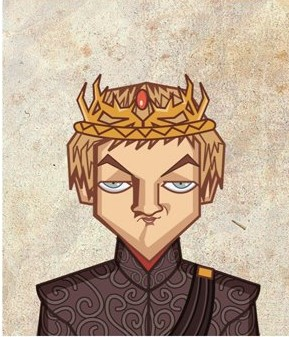
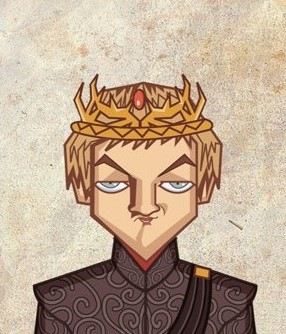
added on hover and on click style

diff --git a/src/App.js b/src/App.js
@@ -9,6 +9,7 @@ class App extends Component {
   state = {
     characters
   };
+  
 
 
   // Map over this.state.characters and render a CharacterCard component for each character object
@@ -21,6 +22,7 @@ class App extends Component {
         
             id={character.id}
             image={character.image}
+
             
           />
         ))}

diff --git a/src/components/CharacterCard/style.css b/src/components/CharacterCard/style.css
@@ -17,6 +17,15 @@
 .card > .img-container > img {
   width: 100%
 }
+.card:hover {
+  box-shadow: 0 5px 7px #999, 0 5px 7px #999;
+  
+}
+.card:active{
+  box-shadow: 0 0 0 6px rgb(172, 155, 140);
+  
+  
+}
 
 
 
